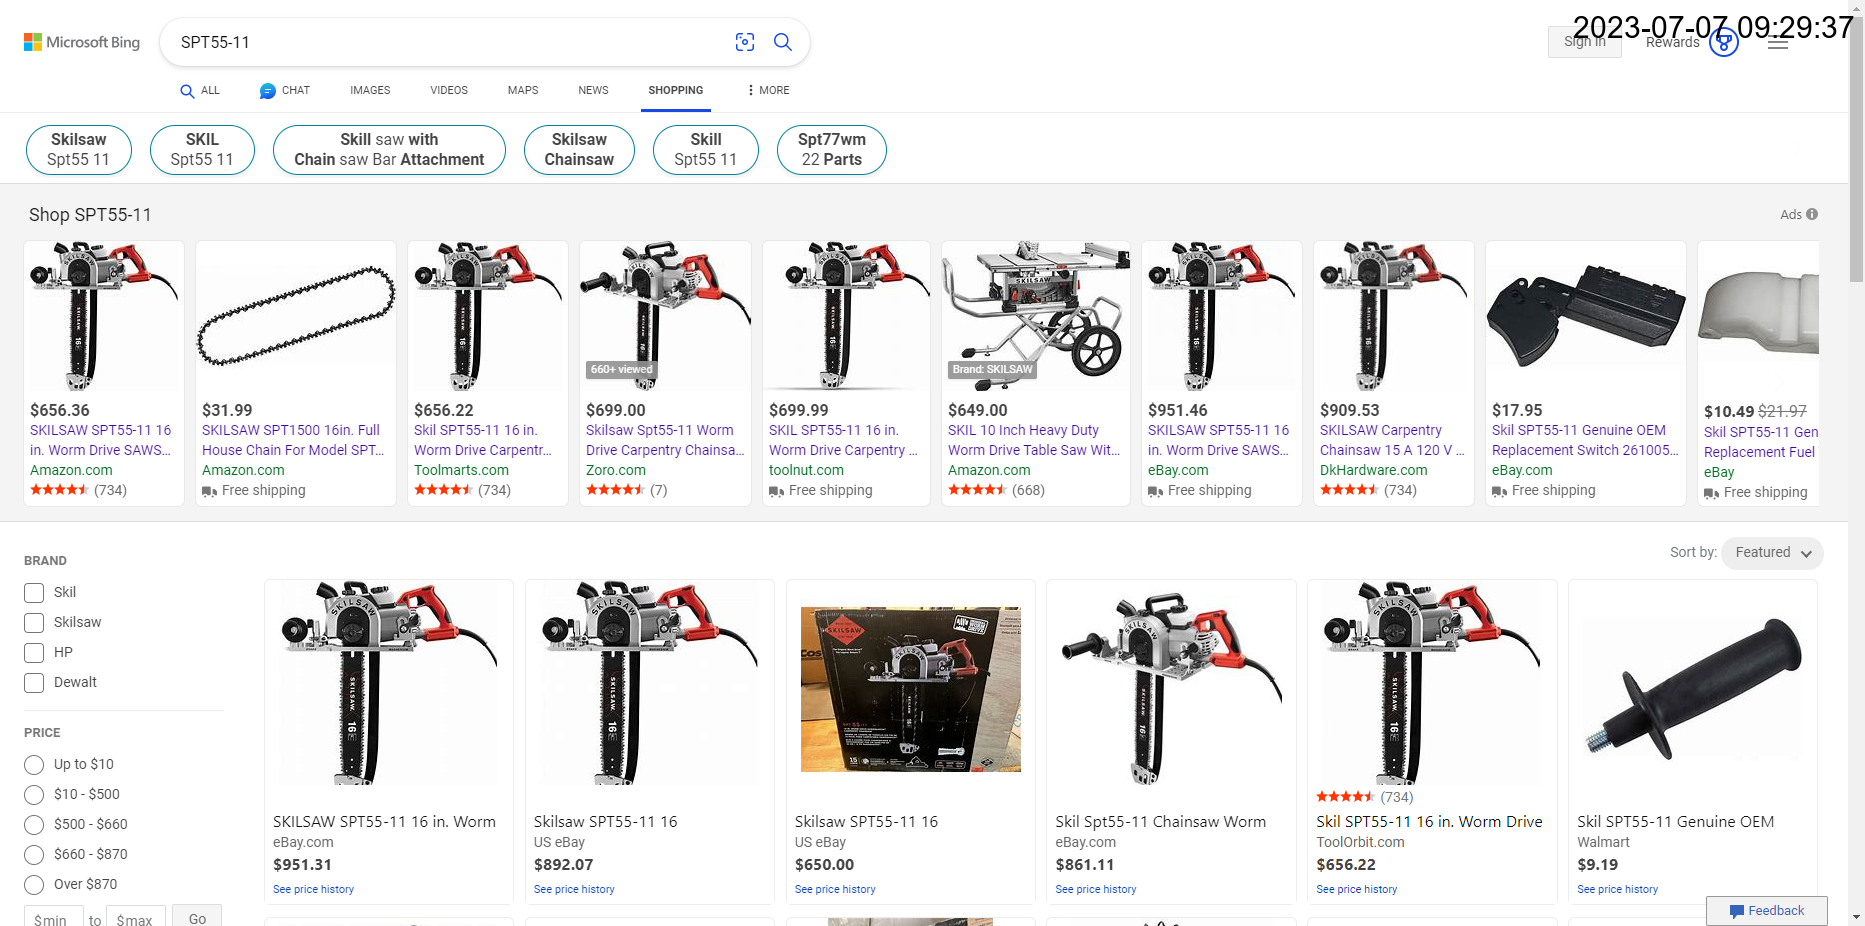
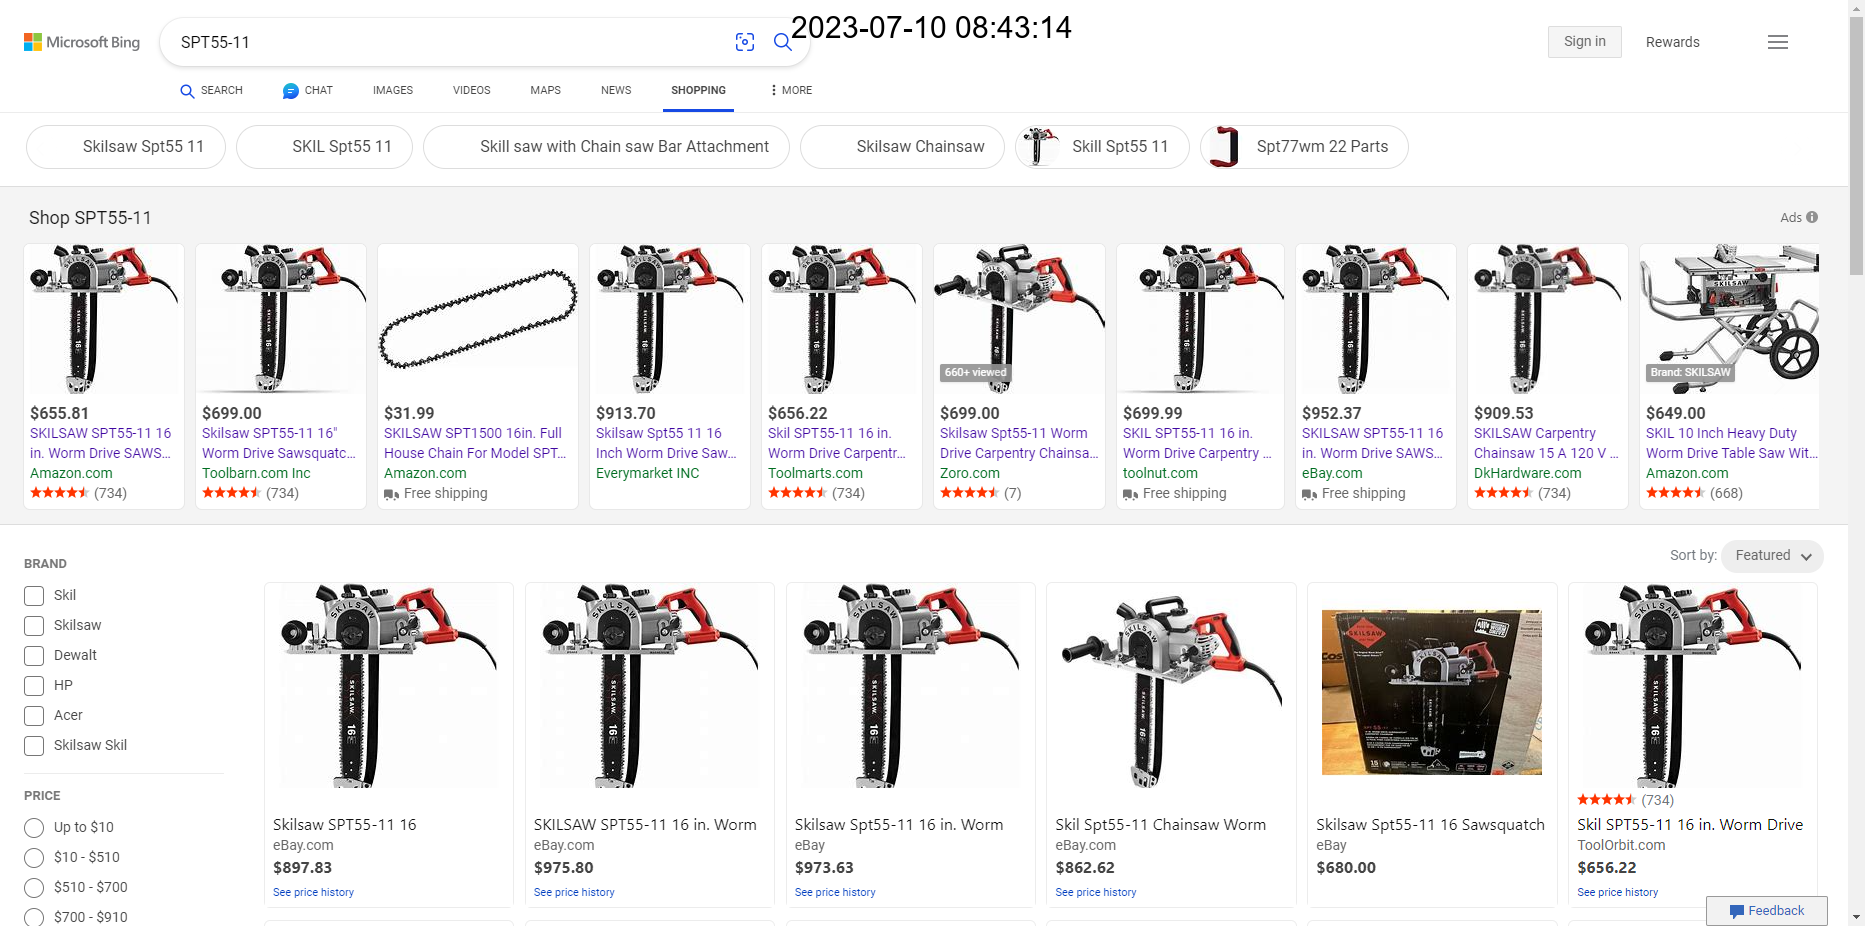
master watermark shift

diff --git a/docs/Master.py b/docs/Master.py
@@ -54,9 +54,7 @@ def add_watermark(screenshot_filename):
     img_width, img_height = img.size
     text_width, text_height = draw.textsize(text, font=font)
 
-    # Calculate x position for the text to be in the top right corner, leaving a small margin
-    margin = 10
-    position = (img_width - text_width - margin, margin)
+    position = ((img_width - text_width) // 2, 10)
 
     draw.text(position, text, font=font, fill=color)
     img.save(screenshot_filename)
